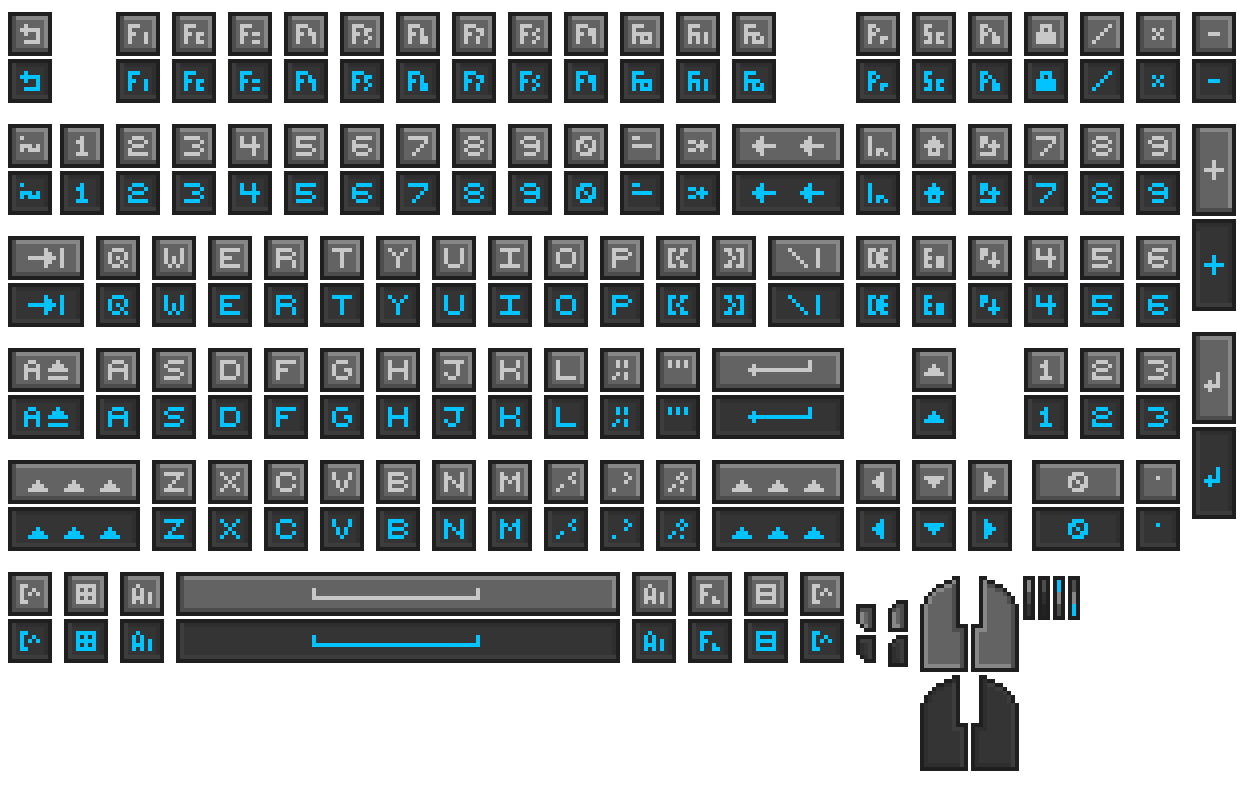
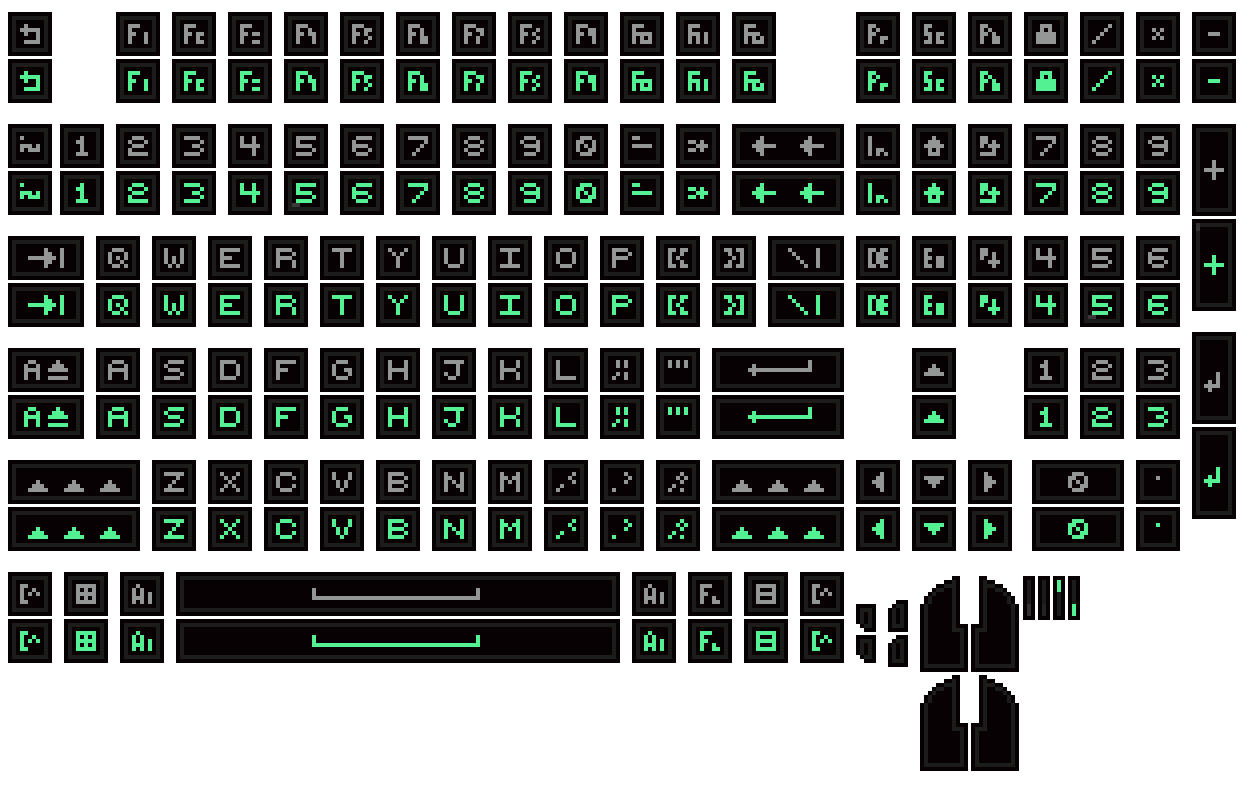
fix: treat held keys as pressed in evdev bridge

diff --git a/server.py b/server.py
@@ -56,7 +56,6 @@ def find_keyboard():
     return None
 
 async def read_events(device):
-    """block on read_one() so we dont fuck the event loop"""
     loop = asyncio.get_running_loop()
     while True:
         # this blocks the thread but thats fine, run_in_executor handles it
@@ -67,7 +66,7 @@ async def read_events(device):
             key_event = evdev.categorize(event)
             code = EVDEV_TO_IO.get(key_event.scancode)
             if code is not None:
-                is_pressed = key_event.keystate == key_event.key_down
+                is_pressed = key_event.keystate in (key_event.key_down, key_event.key_hold)
                 msg = json.dumps({"code": code, "pressed": is_pressed})
                 await broadcast(msg)
 